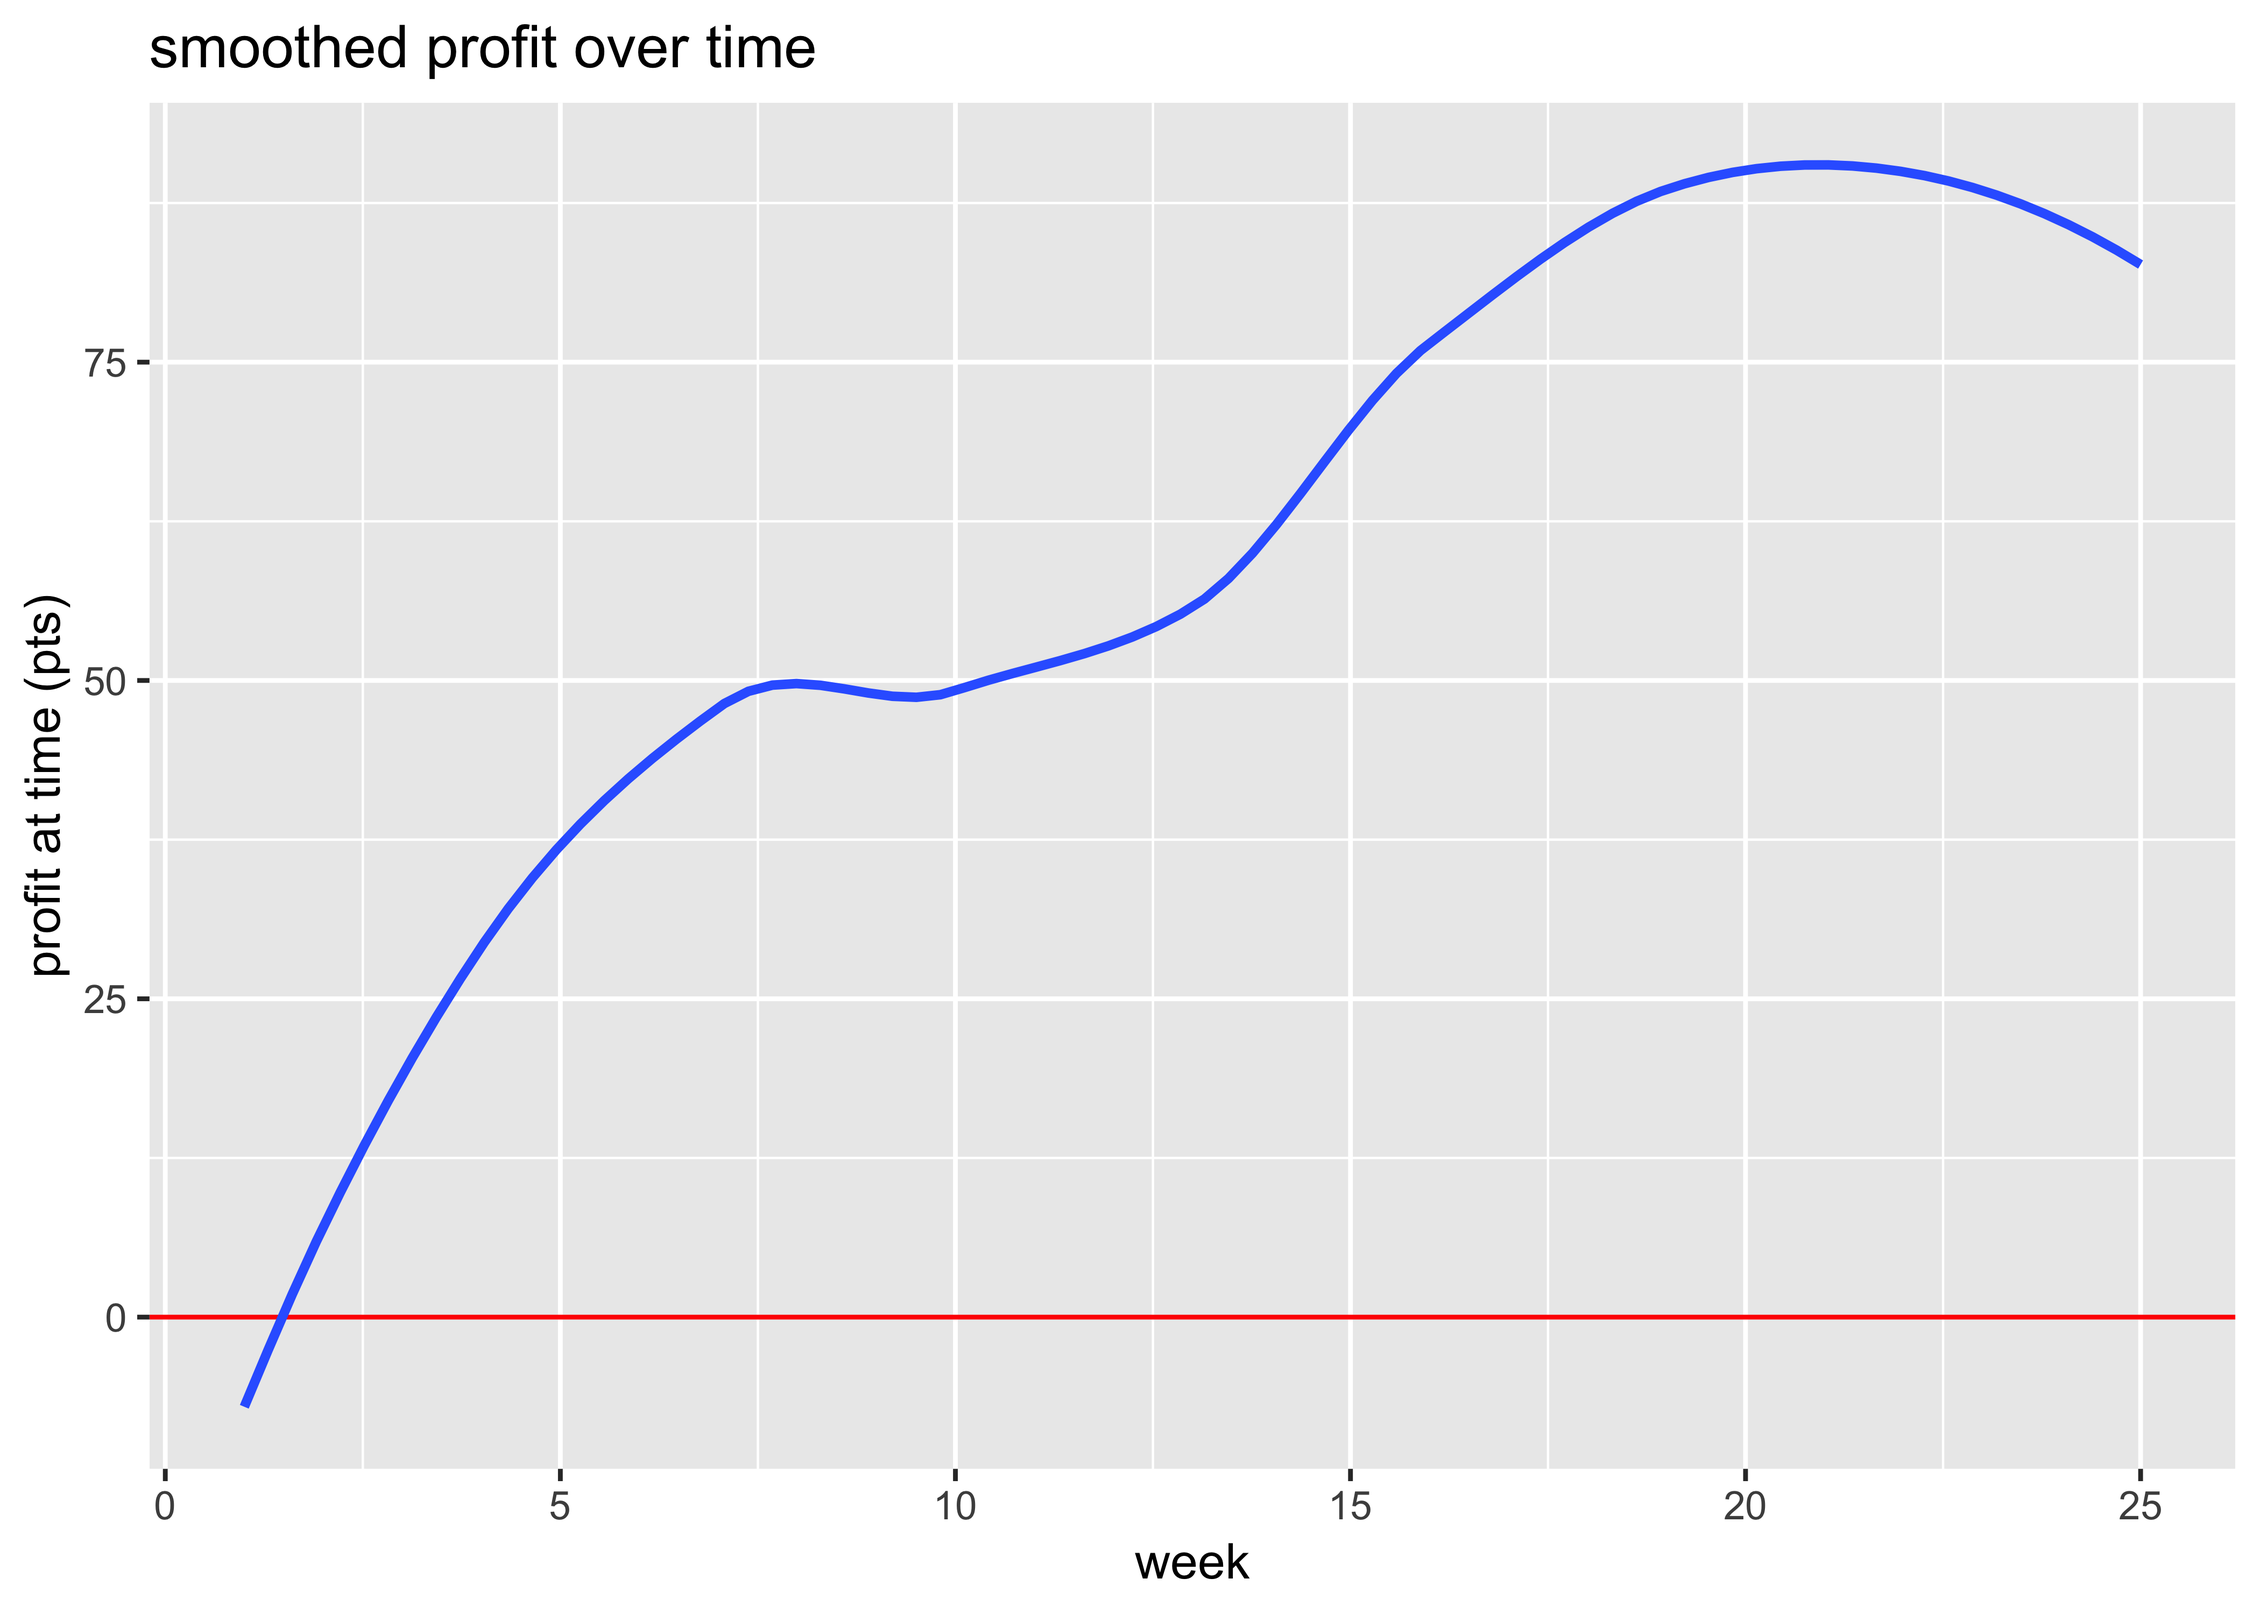
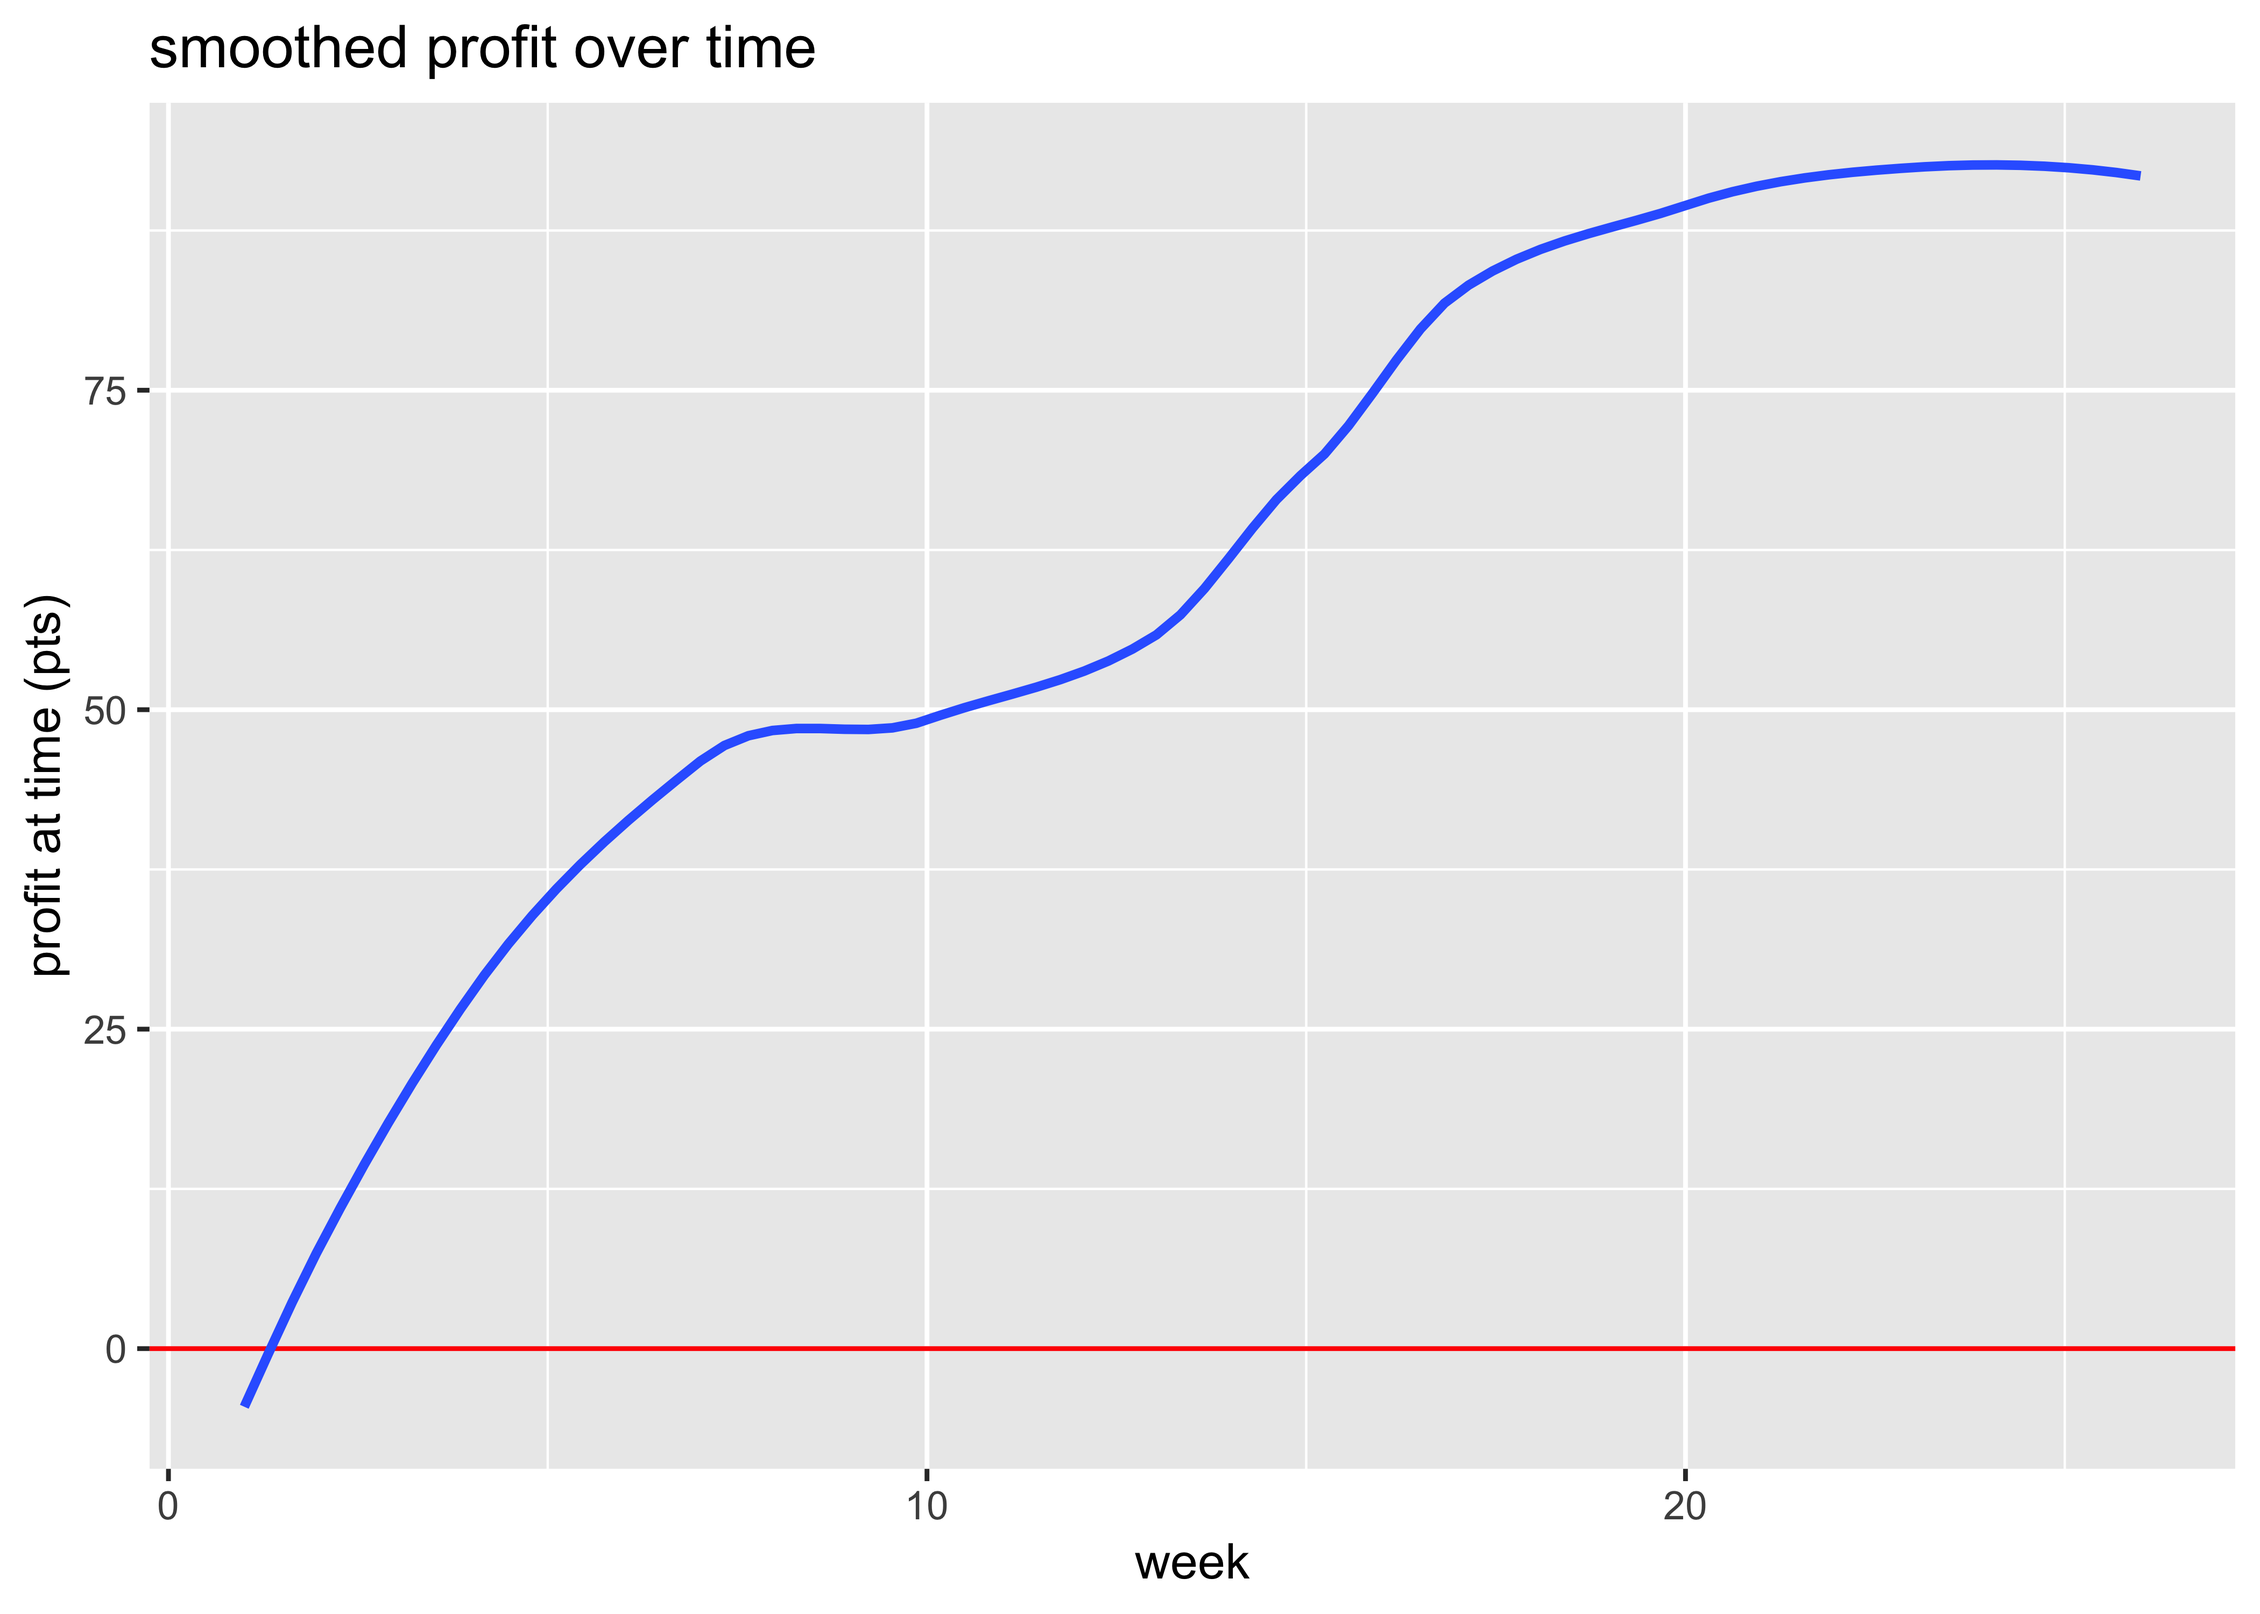
Update.

diff --git a/report.md b/report.md
@@ -1,6 +1,6 @@
 report
 ================
-2018-10-13
+2018-10-18
 
 # Profit over time
 
@@ -10,50 +10,50 @@ report
 
 # ROI and ROC
 
-We put in €9000 and we’ve made a profit of €3,776 on the bets. However,
-we’ve paid two subscriptions of £600 which amounts to €1,368 so our net
-profit is €2,408. That’s a return on capital of 26.76%.
+We put in €9000 and we’ve made a profit of €4,998 on the bets. However,
+we’ve paid three subscriptions of £600 which amounts to €2,050 so our
+net profit is €2,948. That’s a return on capital of 32.76%.
 
-We have wagered a total of €49,404 and made a betting profit of €3,776,
-which gives us a betting ROI of 7.64%.
+We have wagered a total of €50,257 and made a betting profit of €4,998,
+which gives us a betting ROI of 9.94%.
 
 # Have any bookies been riddled?
 
 | bookmaker    | Aidan | Rory | total |
 | :----------- | :---- | :--- | :---- |
-| Paddy Power  | \+45  | \-6  | \+39  |
+| Paddy Power  | \+48  | \-6  | \+42  |
 | Bet365       | 0     | \+36 | \+36  |
-| Betfred      | \+6   | \+21 | \+27  |
+| Betfred      | \+6   | \+17 | \+23  |
 | William Hill | \+22  | \-3  | \+19  |
 | Unibet       | \+3   | \+13 | \+17  |
-| Coral        | \+14  | 0    | \+14  |
+| Coral        | \+17  | 0    | \+17  |
 | Matchbook    | \+10  | \+2  | \+12  |
 | SportingBet  | 0     | \+10 | \+10  |
-| LC Matchbook | 0     | \+9  | \+9   |
+| NA           | \+9   | 0    | \+9   |
+| LC Matchbook | 0     | \+7  | \+7   |
 | Marathon     | 0     | \+3  | \+3   |
 | JuJu         | \+1   | 0    | \+1   |
 | Betway       | 0     | 0    | 0     |
 | SkyBet       | 0     | \-1  | \-1   |
-| Boylesports  | \-1   | 0    | \-1   |
 | SunBets      | \-4   | \+3  | \-1   |
-| NA           | \-3   | 0    | \-3   |
+| Boylesports  | \-1   | 0    | \-1   |
 | BetVictor    | 0     | \-3  | \-3   |
 | 188Bet       | \-2   | \-3  | \-4   |
 | BoyleSports  | \-5   | 0    | \-5   |
 | 888Sport     | 0     | \-5  | \-5   |
 | 10Bet        | 0     | \-6  | \-6   |
+| Betfair SB   | \-1   | \-5  | \-6   |
 | SportsPesa   | 0     | \-6  | \-6   |
 | BetStars     | \-2   | \-9  | \-10  |
 | Black Type   | 0     | \-17 | \-17  |
 | Ladbrokes    | 0     | \-18 | \-18  |
-| Betfair SB   | \-15  | \-5  | \-21  |
 
 bookie profits (pts)
 
 # Minimum acceptable odds
 
-We’ve had winnings of 815 points and losses of 727 points, so even if
-our odds were only a fraction 727 / 815 = 0.89 of what we actually got,
+We’ve had winnings of 845 points and losses of 732 points, so even if
+our odds were only a fraction 732 / 845 = 0.87 of what we actually got,
 we’d still be breaking even.
 
 # Winners and losers
@@ -62,15 +62,16 @@ Here’s a count of the number of winners, losers, and places we’ve had.
 
 | result         |   n | percent |
 | :------------- | --: | :------ |
-| Win only Lose  | 299 | 64%     |
-| Win only Win   |  86 | 19%     |
+| Win only Lose  | 303 | 64%     |
+| Win only Win   |  92 | 19%     |
 | Each way Lose  |  61 | 13%     |
 | Each way Place |   9 | 2%      |
 | Each way Win   |   9 | 2%      |
+| Win only um    |   2 | 0%      |
 
 # Win only vs each way
 
-  - We’ve made 352 *win only* bets, on which we’ve made a profit of
-    €5,245.
+  - We’ve made 361 *win only* bets, on which we’ve made a profit of
+    €6,412.
   - We’ve made 72 *each way* bets, on which we’ve made a profit of
-    €-1,469.
+    €-1,415.
